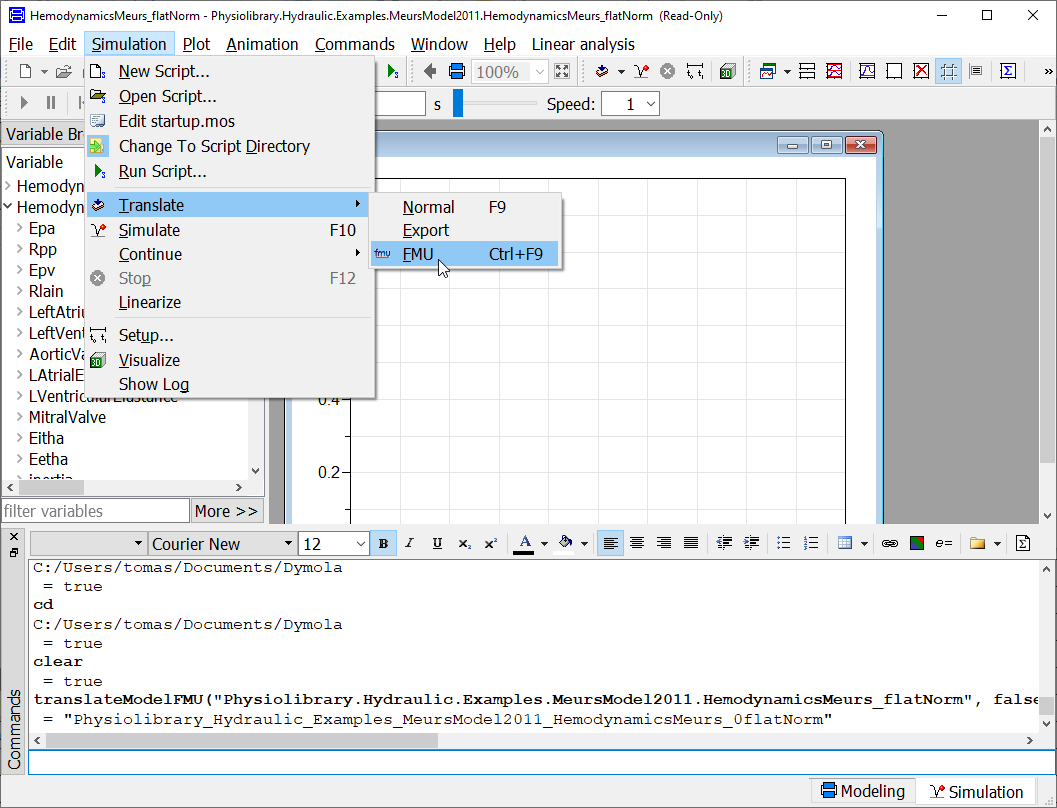
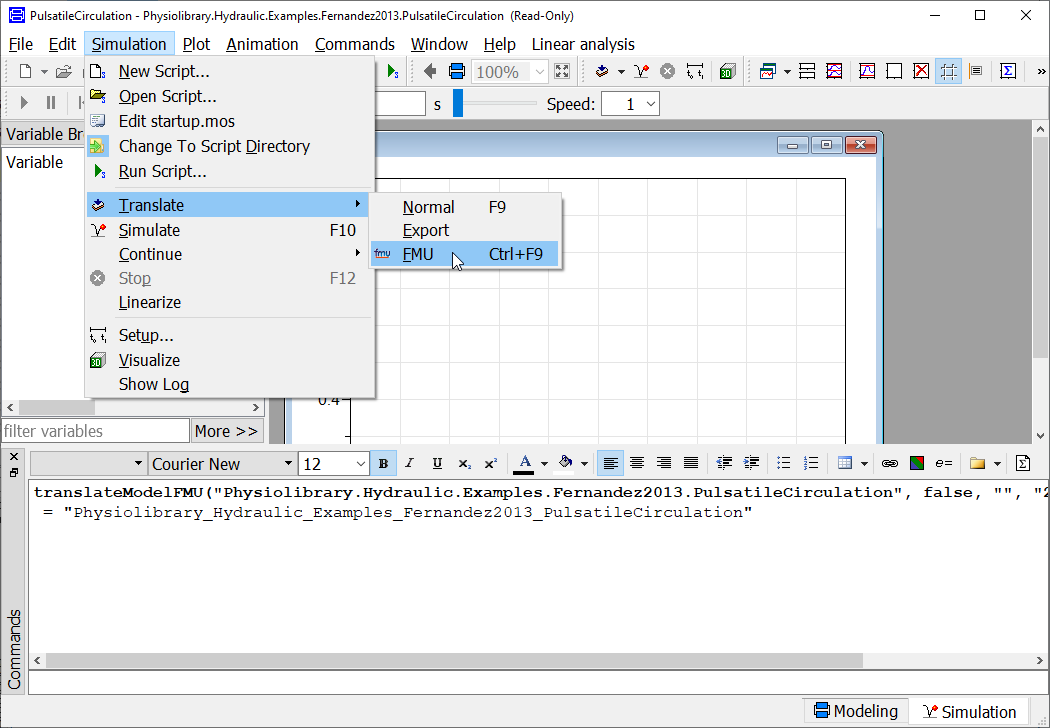
ADD OM export, change demo model to Fernandez as Meurs dont compile in OM

diff --git a/tutorial/index.md b/tutorial/index.md
@@ -1,6 +1,9 @@
 # Tutorial to use Bodylight.js 2.0
 
-This tutorial guides via usage of various tools to create interactive web based simulators.
+This tutorial guides via usage of various tools to create interactive web based simulators. 
+1. web simulator is a general web page in HTML
+2. web simulator can be written in Markdown - the 'markdown-it' renderer is used to render HTML output
+3. the Bodylight.js components are distributed as reusable web components - custom elements, which can be written next to HTML or Markdown - the 'bodylight.js' renderer is used to render HTML/JS output
 
 ## Basic web simulator
 
@@ -11,6 +14,10 @@ Basic guide will follow you to:
 2. Compile FMU to Javascript with embedded WebAssembly (this allows to run model FMU inside browser.
 3. Create web simulator document.
 
+<a href='#basic1exportdymola' class="w3-button w3-orange">Basic Web Simulator Tutorial - start from Dymola</a>
+
+<a href='#basic2exportom' class="w3-button w3-orange">Basic Web Simulator Tutorial - start from OpenModelica</a>
+
 ## Advanced web simulator
 
 To produce multipage interactive web simulators you will need Bodylight.js-FMU-Compiler Bodylight.js-Components and Bodylight-Editor or Bodylight-Composer tool. 
@@ -19,4 +26,8 @@ Advanced guide will follow you to:
 1. Compile Modelica model to FMU with source codes including solver.
 2. Compile FMU to Javascript with embedded WebAssembly (this allows to run model FMU inside browser.
 3. Create web simulator project in Bodylight Editor.
+
+<a href='#advanced1exportdymola' class="w3-button w3-orange">Advanced Web Simulator Tutorial - start from Dymola</a>
+
+<a href='#advanced2exportom' class="w3-button w3-orange">Basic Web Simulator Tutorial - start from OpenModelica</a>
 

diff --git a/tutorial/basic2exportom.md b/tutorial/basic2exportom.md
@@ -1,3 +1,46 @@
-# 2. Export Model to FMU in OpenModelia
+# 2. Export Model to FMU in OpenModelica
 
 In this step we will export a Modelica model into FMU in Co-Simulation mode using OpenModelica tool. If you use Dymola - follow previous section and skip this section.
+
+## 2.1 Start OpenModelica Editor 
+
+* Start OMEdit (tested in version 1.16.2).
+
+![OMStart](OM_Start.png)
+
+
+## 2.2 Open Model File
+
+Open a Modelica model you would like to use in web simulator. 
+* In this guide, we will open Physiolibrary[^1] via `File -> System Libraries -> Physiolibrary
+
+* and model of Hemodynamics by Fernandez de Cañete [^2] 
+
+![OM_MeursModel](OM_CaneteModel.png)
+
+## 2.2 Setup FMU Export options
+* Open `Tools -> Options -> FMI`
+* check these options
+  * Version: `2.0`
+  * Type: `Co-Simulation`
+  * Move FMU: `/vagrant_data` or any other existing directory
+  * Model Description Filter: `internal`
+  * Include Source Code: checked <input type="checkbox" checked disabled/>
+
+![OM_FMUSettings](OM_FMUSettings.png)
+
+## 2.3 Do FMU Export
+  * right click on the selected model and select `Export -> FMU`
+
+![OM_FMUExport](OM_FMUExport.png)
+
+
+## 2.4 Use FMU file
+
+Last step created a file with `.fmu` extension in directory set in step 2.2 
+Check it in your file system. 
+
+![bash_FMUFile](bash_FMUFile.png)
+
+And use this file in following section.
+

diff --git a/tutorial/basic1exportdymola.md b/tutorial/basic1exportdymola.md
@@ -3,7 +3,7 @@
 
 In this step we will export a Modelica model into FMU version 2.0 in Co-Simulation mode using Dymola tool. If you use Open Modelica tool, skip to next section.
  
-## 1.1 Open Dymola tool
+## 1.1 Start Dymola tool
 
 * Start Dymola (tested in version 2019).
 
@@ -18,11 +18,11 @@ You may need at least "Binary Mode Export" or "Source Code Generation" license i
 ## 1.3 Open Model File
 
 Open a Modelica model you would like to use in web simulator. 
-* In this guide, we will open Physiolibrary[1]
+* In this guide, we will open Physiolibrary[^1]
 
 <img src='Dymola_Physiolibrary.png'></img>
 
-* and model of Hemodynamics by Meurs [2]
+* and model of Hemodynamics by Fernandez de Cañete [^2] 
 
 <img src='Dymola_MeursModel.png'></img>
 
